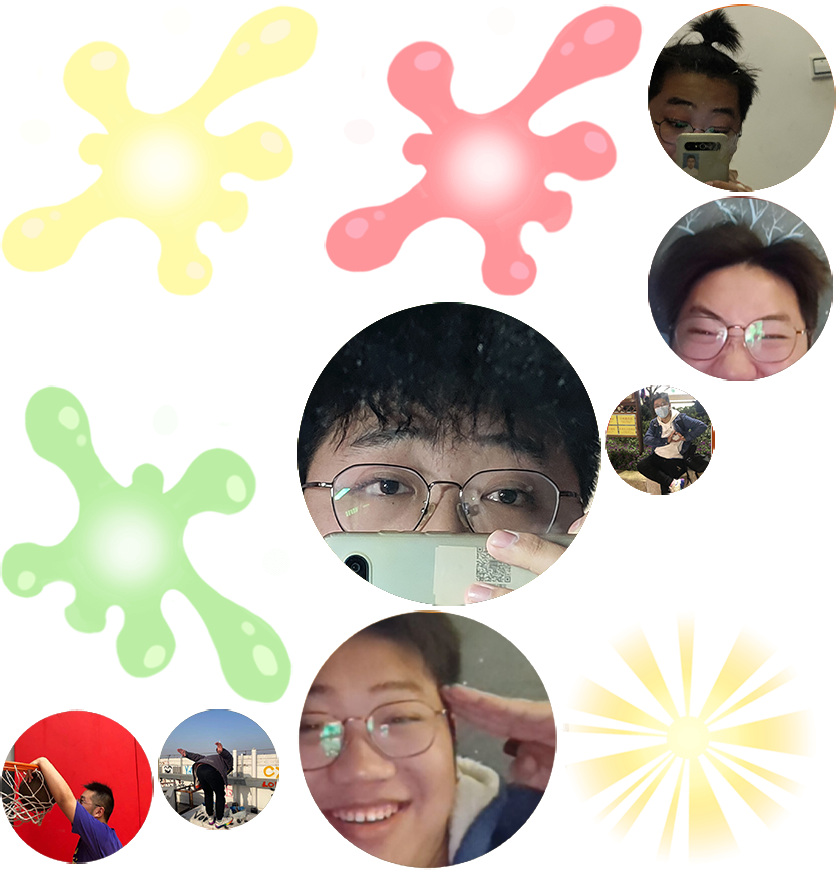
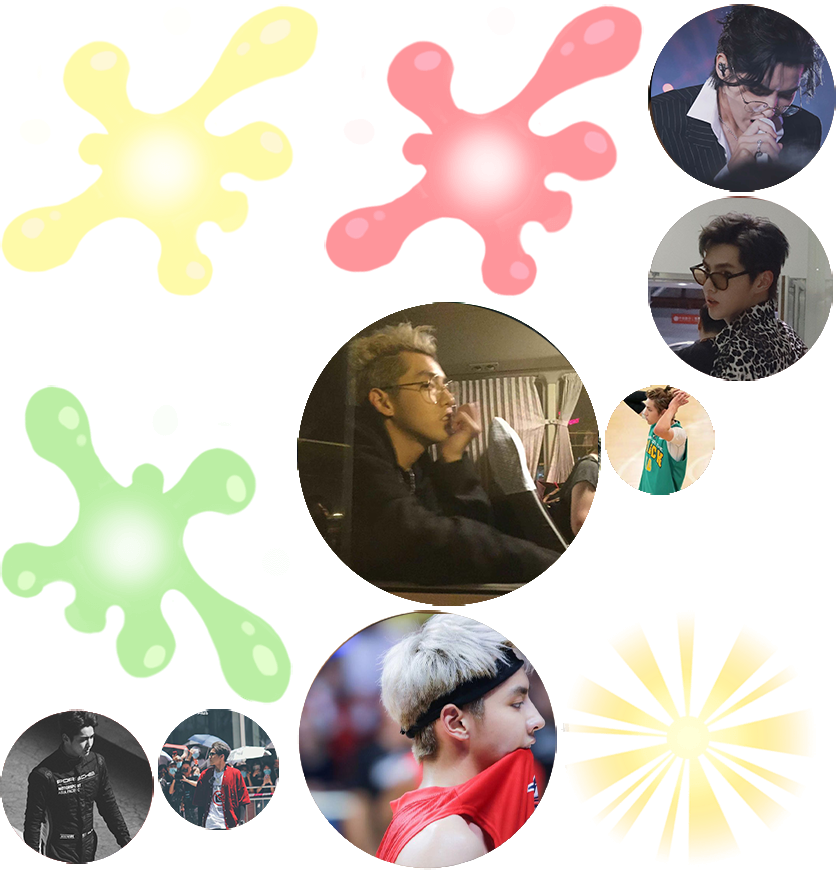
nitial commit

Changed region(s): [[0.0, 0.0, 1.0, 1.0]]

diff --git a/index.html b/index.html
@@ -4,7 +4,7 @@
 <head>
     <meta charset="utf-8">
 
-    <title>合成唐逸飞</title>
+    <title>合成吴亦凡</title>
 
     <!--http://www.html5rocks.com/en/mobile/mobifying/-->
     <meta name="viewport" content="width=device-width,user-scalable=no,initial-scale=1, minimum-scale=1,maximum-scale=1" />
@@ -109,7 +109,7 @@
             //        console.log("window.navigator.language",window.navigator.language);
 
             if (window.navigator.language == "zh-CN" || window.navigator.language == "zh-cn") {
-                document.title = "合成唐逸飞·";
+                document.title = "合成吴亦凡·";
             } 
 
 
